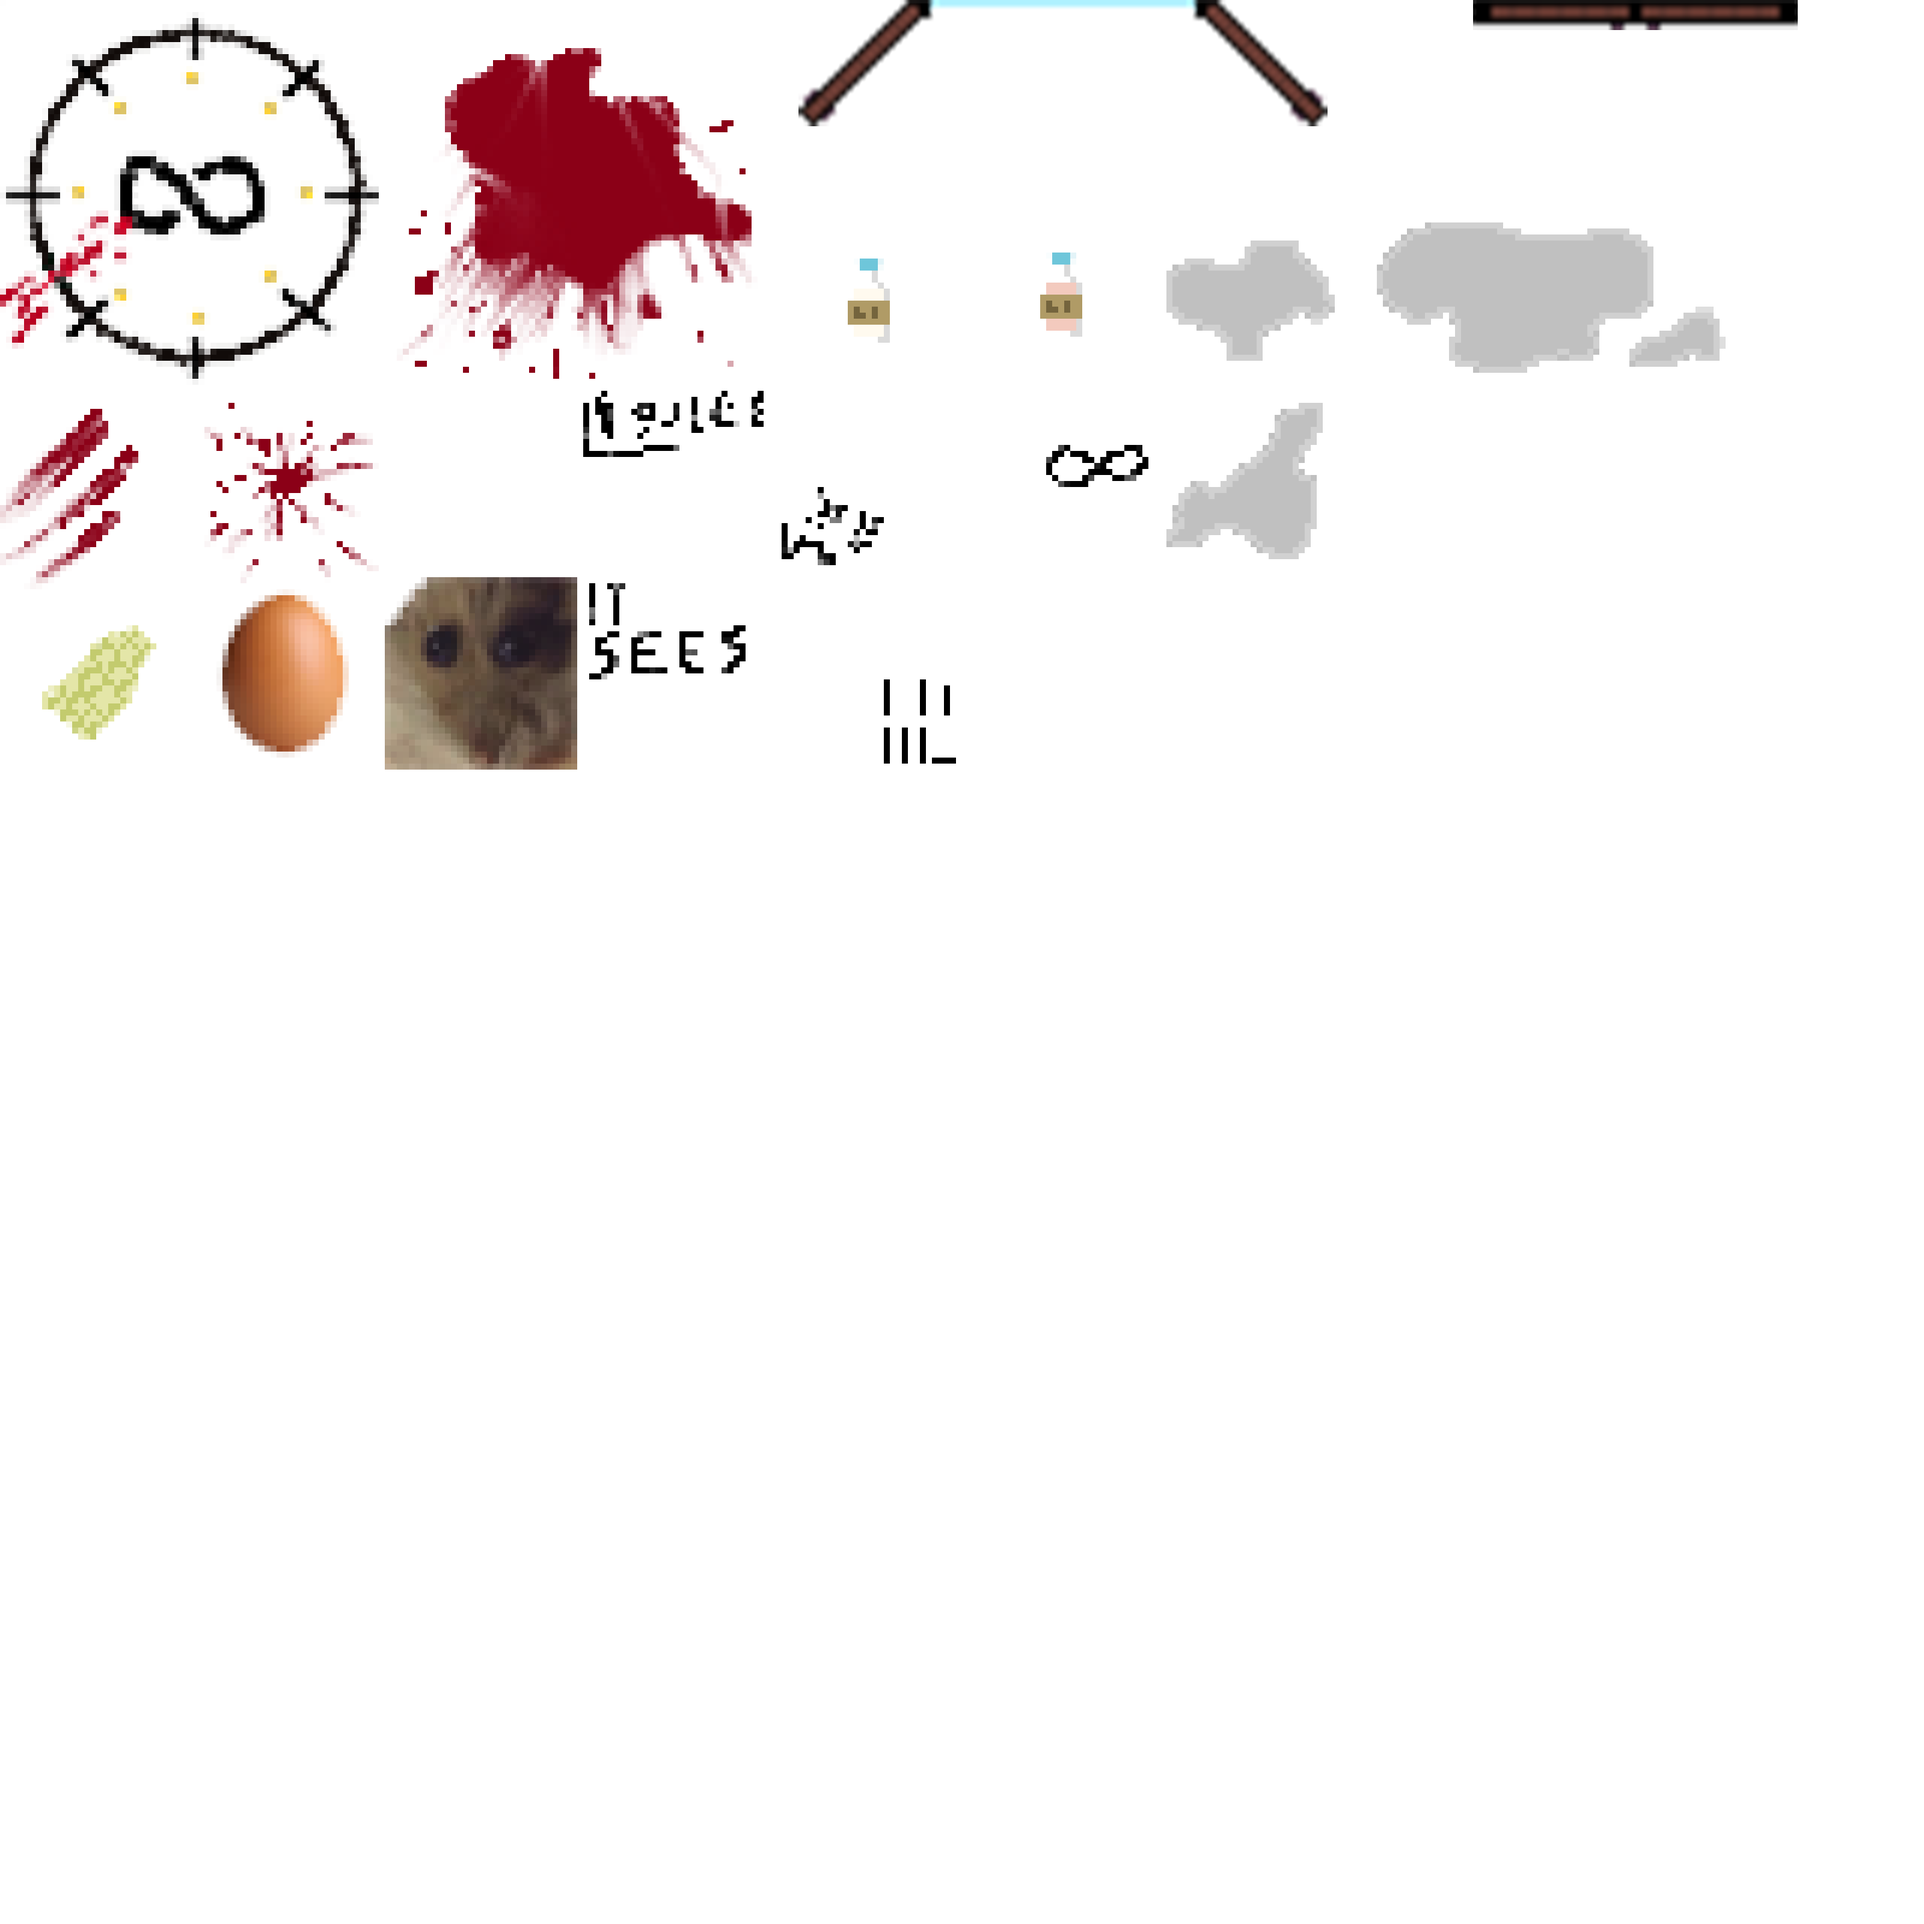
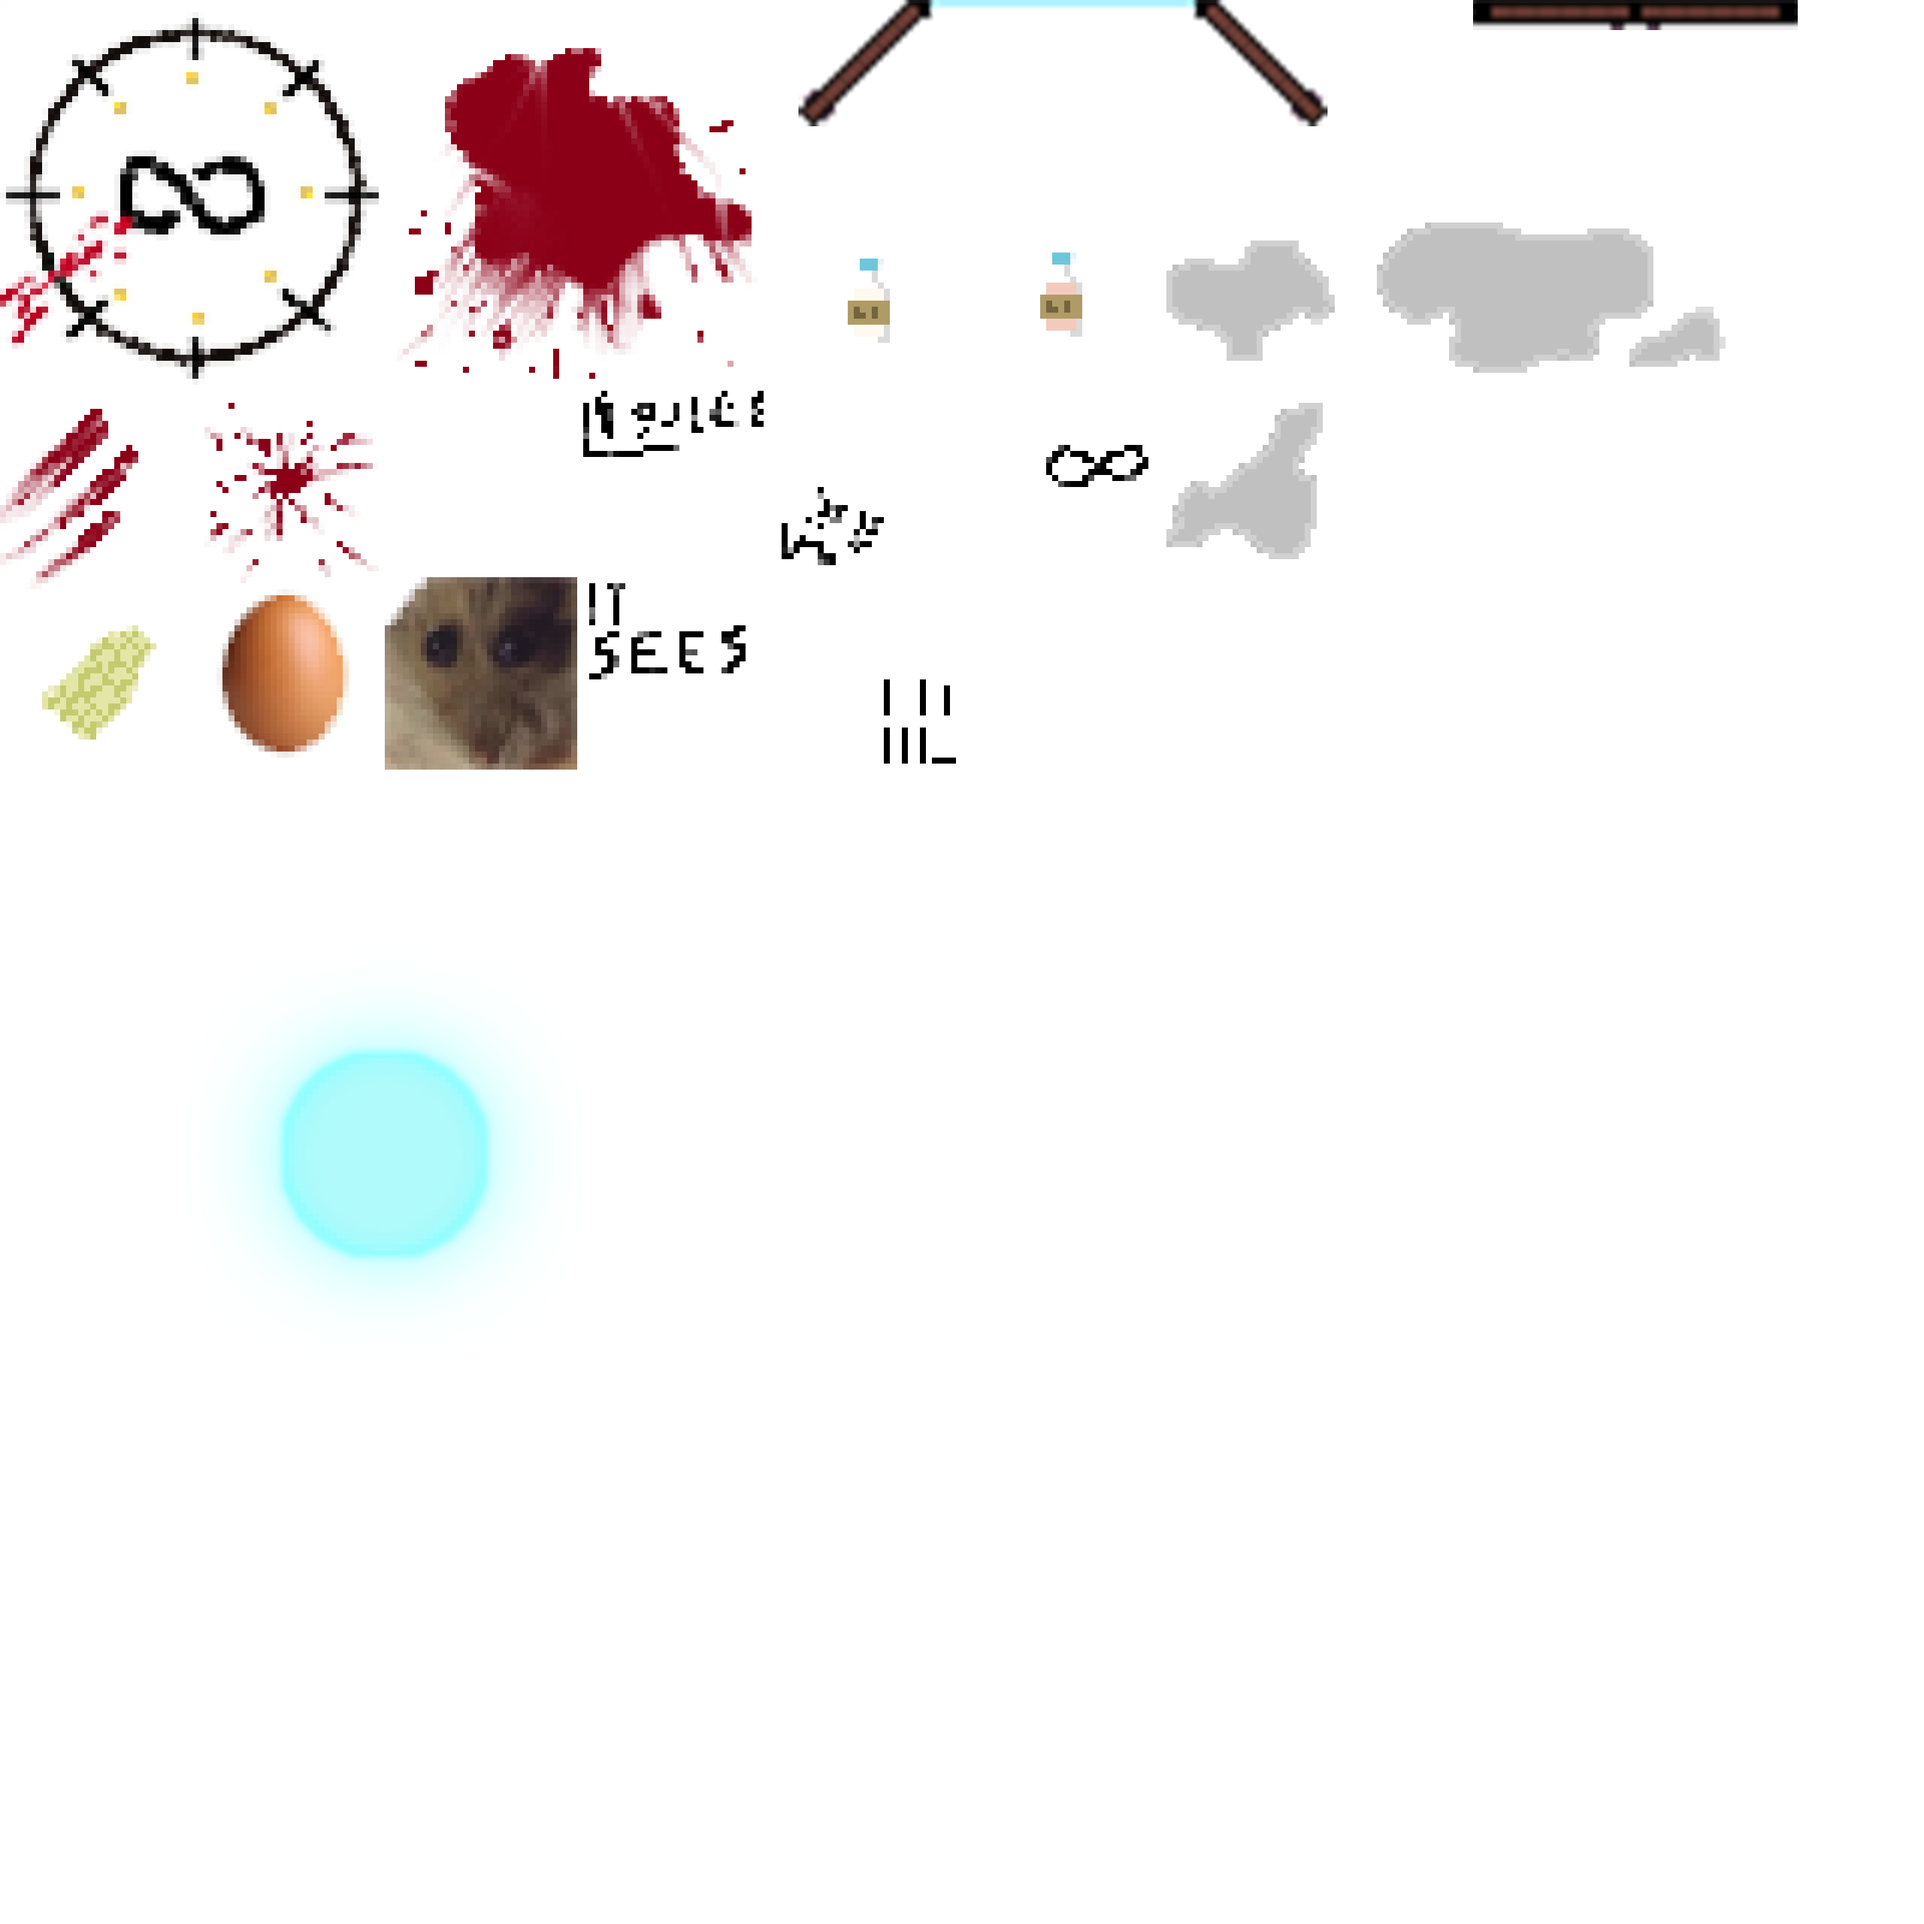
added exit, starting to get it to work

Changed region(s): [[0.125, 0.5312, 0.2812, 0.6875]]

diff --git a/Level 1 assets/props.tsx b/Level 1 assets/props.tsx
@@ -1,0 +1,4 @@
+<?xml version="1.0" encoding="UTF-8"?>
+<tileset version="1.8" tiledversion="1.8.2" name="props" tilewidth="320" tileheight="320" tilecount="100" columns="10">
+ <image source="../assets/props.png" width="3200" height="3200"/>
+</tileset>

diff --git a/Te game xd.py b/Te game xd.py
@@ -48,7 +48,7 @@ class MyGame(arcade.Window):
             "walls": {"use_spatial_hash": True},
         }
 
-        tile_map = arcade.load_tilemap("Level 4 assets\lvl4.tmx", TILE_SCALING, layer_options=layer_options)
+        tile_map = arcade.load_tilemap("Level 1 assets\lvl1.tmx", TILE_SCALING, layer_options=layer_options)
         self.scene = arcade.Scene.from_tilemap(tile_map)
         self.player_list = arcade.SpriteList()
         self.enemy_list = arcade.SpriteList()
@@ -77,7 +77,8 @@ class MyGame(arcade.Window):
             engine = arcade.PhysicsEngineSimple(enemy, walls=[self.scene["walls"], self.scene["secrets"]])
             self.enemy_physics_engines.append(engine)
         
-        
+        for sprite in self.scene['exit']:
+           
 
         self.camera = arcade.Camera(self.width, self.height)
         self.HUD_camera = arcade.Camera(self.width, self.height)
